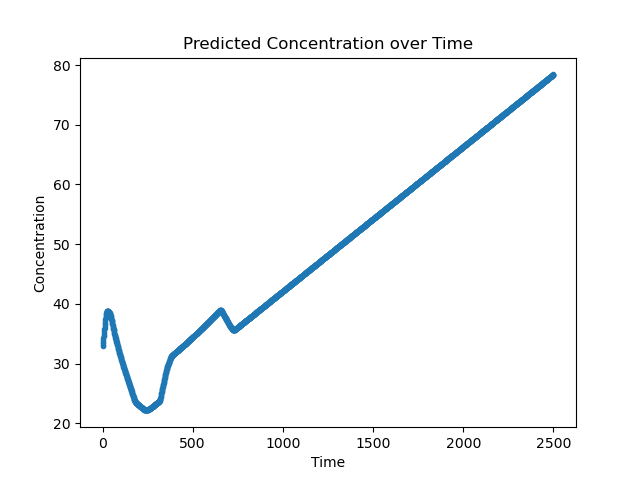
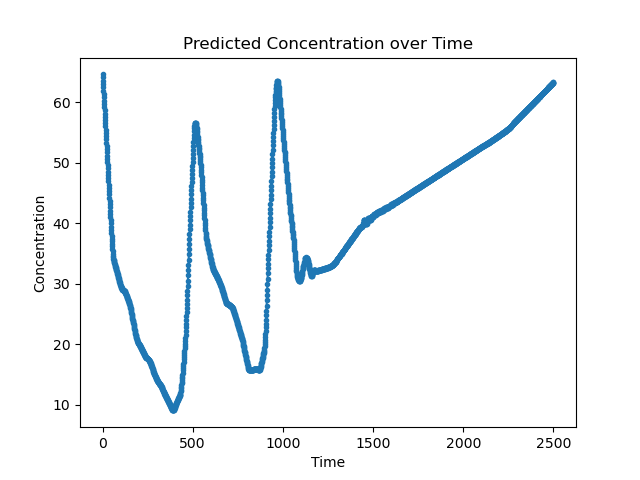
2503100827

diff --git a/250309/nivolumab.py b/250309/nivolumab.py
@@ -21,7 +21,7 @@ BATCH_SIZE = 128
 NUM_WORKERS = 8
 
 PIN_MEMORY = True
-LEARNING_RATE = 1e-3
+LEARNING_RATE = 2e-3
 STATIC_INPUT_DIM = 7
 STATIC_HIDDEN_DIM = 16
 ODE_HIDDEN_DIM = 16
@@ -136,7 +136,7 @@ class ODEFunction(nn.Module):
         )
 
     def forward(
-        self, t, state, static_embed, injection_times, injection_doses, sigma=1.0
+        self, t, state, static_embed, injection_times, injection_doses, sigma=0.1
     ):
         dose_effect = SCALING_FACTOR * (
             injection_doses * torch.exp(-((t - injection_times) ** 2) / (2 * sigma**2))

diff --git a/README.md b/README.md
@@ -19,3 +19,6 @@
   - batch size를 128로 줄여 일반화 수준 향상
   - GPU 2개 병렬로 모두 사용 (기존 코드는 1개만 사용)
   - 128 epoch 학습, loss 약 300 (아직 수렴 X)
+- 2503100824
+  - batch size 128, 100 epoch, loss 450
+  - epoch 진행될수록 속도 저하됨 (원인 분석 중)
